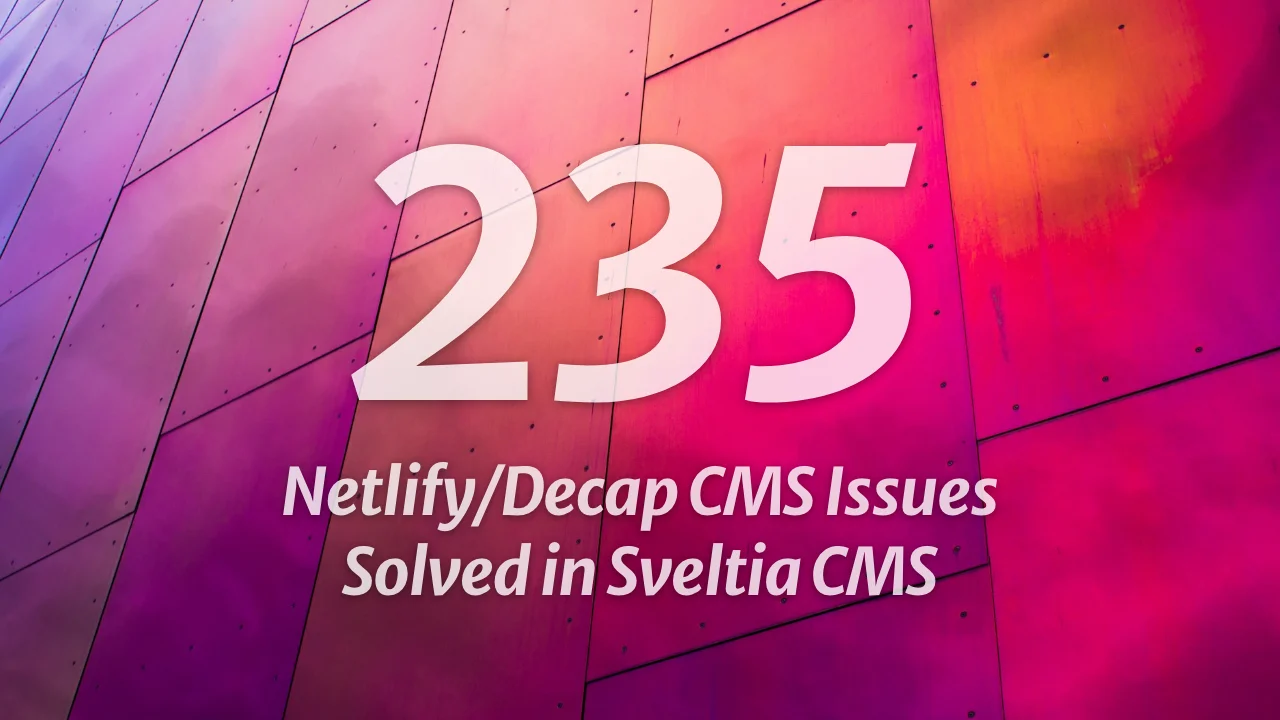
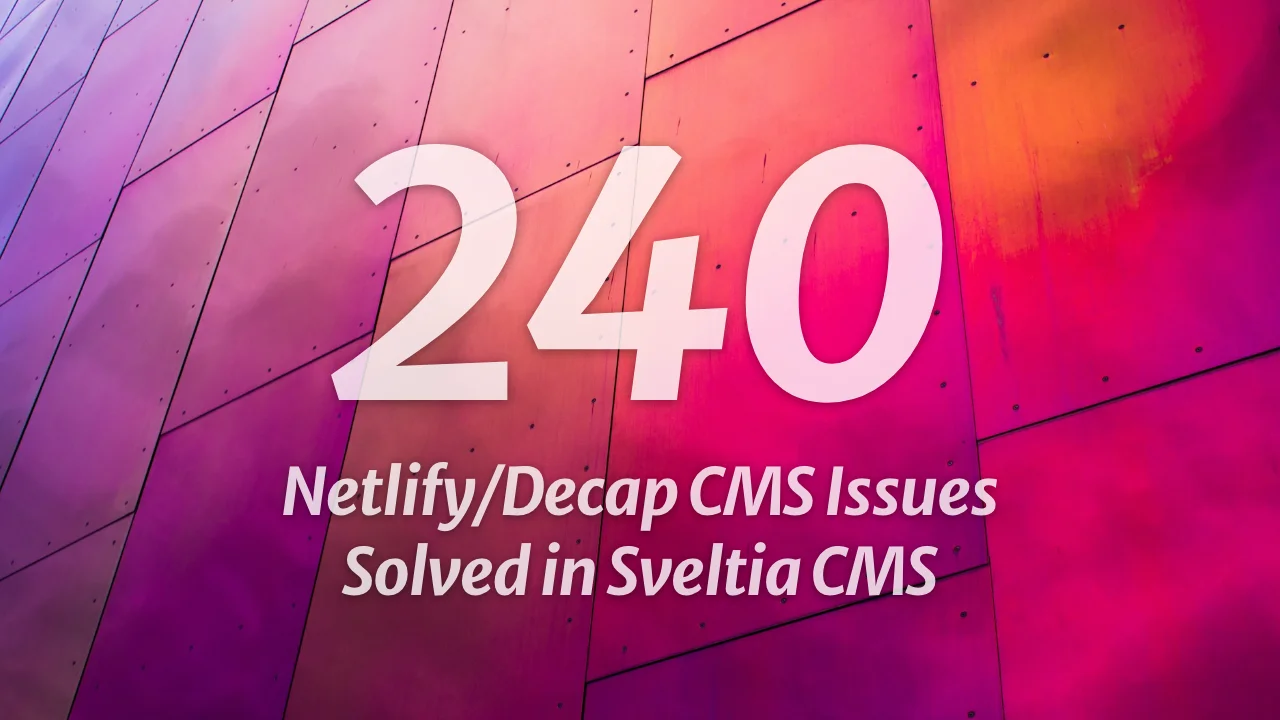
[skip ci] Update README.md

Changed region(s): [[0.25, 0.1833, 0.75, 0.5806]]

diff --git a/README.md b/README.md
@@ -134,7 +134,7 @@ While we fix reported bugs as quickly as possible, usually within 24 hours, our 
 
 - Ensuring substantial [compatibility with Netlify/Decap CMS](#compatibility)
 - Tackling as many [Netlify/Decap CMS issues](https://github.com/decaporg/decap-cms/issues) as possible
-  - So far, 235+ issues, or 495+ if including duplicates, have been effectively solved in Sveltia CMS (Yes, you read it right)
+  - So far, 240+ issues, or 495+ if including duplicates, have been effectively solved in Sveltia CMS (Yes, you read it right)
   - Target:
     - 250 issues, or 500 if including duplicates, by GA — Almost there!
     - 400 issues, or 800 if including duplicates, in the future 💪
@@ -148,7 +148,7 @@ While we fix reported bugs as quickly as possible, usually within 24 hours, our 
 - Responding to requests from the maintainer’s clients
 - Making the code clean and maintainable
 
-![235 Netlify/Decap CMS issues solved in Sveltia CMS](https://raw.githubusercontent.com/sveltia/sveltia-cms/main/docs/headline-1.webp?20250715)<br>
+![240 Netlify/Decap CMS issues solved in Sveltia CMS](https://raw.githubusercontent.com/sveltia/sveltia-cms/main/docs/headline-1.webp?20250729)<br>
 
 ## Differentiators
 
@@ -167,7 +167,7 @@ Note: This lengthy section compares Sveltia CMS with both Netlify CMS and Decap 
   - For a smoother experience, we even go beyond responsive design with optimized navigation, [view transitions](https://developer.chrome.com/docs/web-platform/view-transitions), larger buttons, and other tweaks. However, there are still rough edges, and we are working to fully optimize the app for small screens and touch devices.
   - If you’re already signed in on your desktop, open the Account menu in the top right corner of the CMS, click Sign In with Mobile, and scan the QR code for passwordless sign-in. Your settings will be automatically copied.
 - Made with [Svelte](https://svelte.dev/), not React, means we can spend more time on UX rather than tedious state management. It also allows us to avoid common fatal React application crashes.[^113][^129] Best of all, Svelte offers great performance.
-- Other crashes in Netlify/Decap CMS are also irrelevant to us, making Sveltia CMS much more stable.[^112][^203][^204][^260]
+- Other crashes in Netlify/Decap CMS are also irrelevant to us, making Sveltia CMS much more stable.[^112][^203][^204][^260][^265]
 - We build [our own UI component library](https://github.com/sveltia/sveltia-ui), including custom dialogs, to ensure optimal usability without compromising accessibility.[^196][^205][^206][^207][^208][^209][^210]
 - Users can personalize the application with various settings, including appearance and language. Developer Mode can also be enabled.
 - Never miss out on the latest features and bug fixes by being notified when an update to the CMS is available.[^31] Then update to the latest version with a single click.[^66]
@@ -2221,3 +2221,5 @@ This software is provided “as is” without any express or implied warranty. W
 [^263]: Netlify/Decap CMS [#1342](https://github.com/decaporg/decap-cms/issues/1342)
 
 [^264]: Netlify/Decap CMS [#7557](https://github.com/decaporg/decap-cms/issues/7557)
+
+[^265]: Netlify/Decap CMS [#7550](https://github.com/decaporg/decap-cms/issues/7550), [#7562](https://github.com/decaporg/decap-cms/issues/7562)
